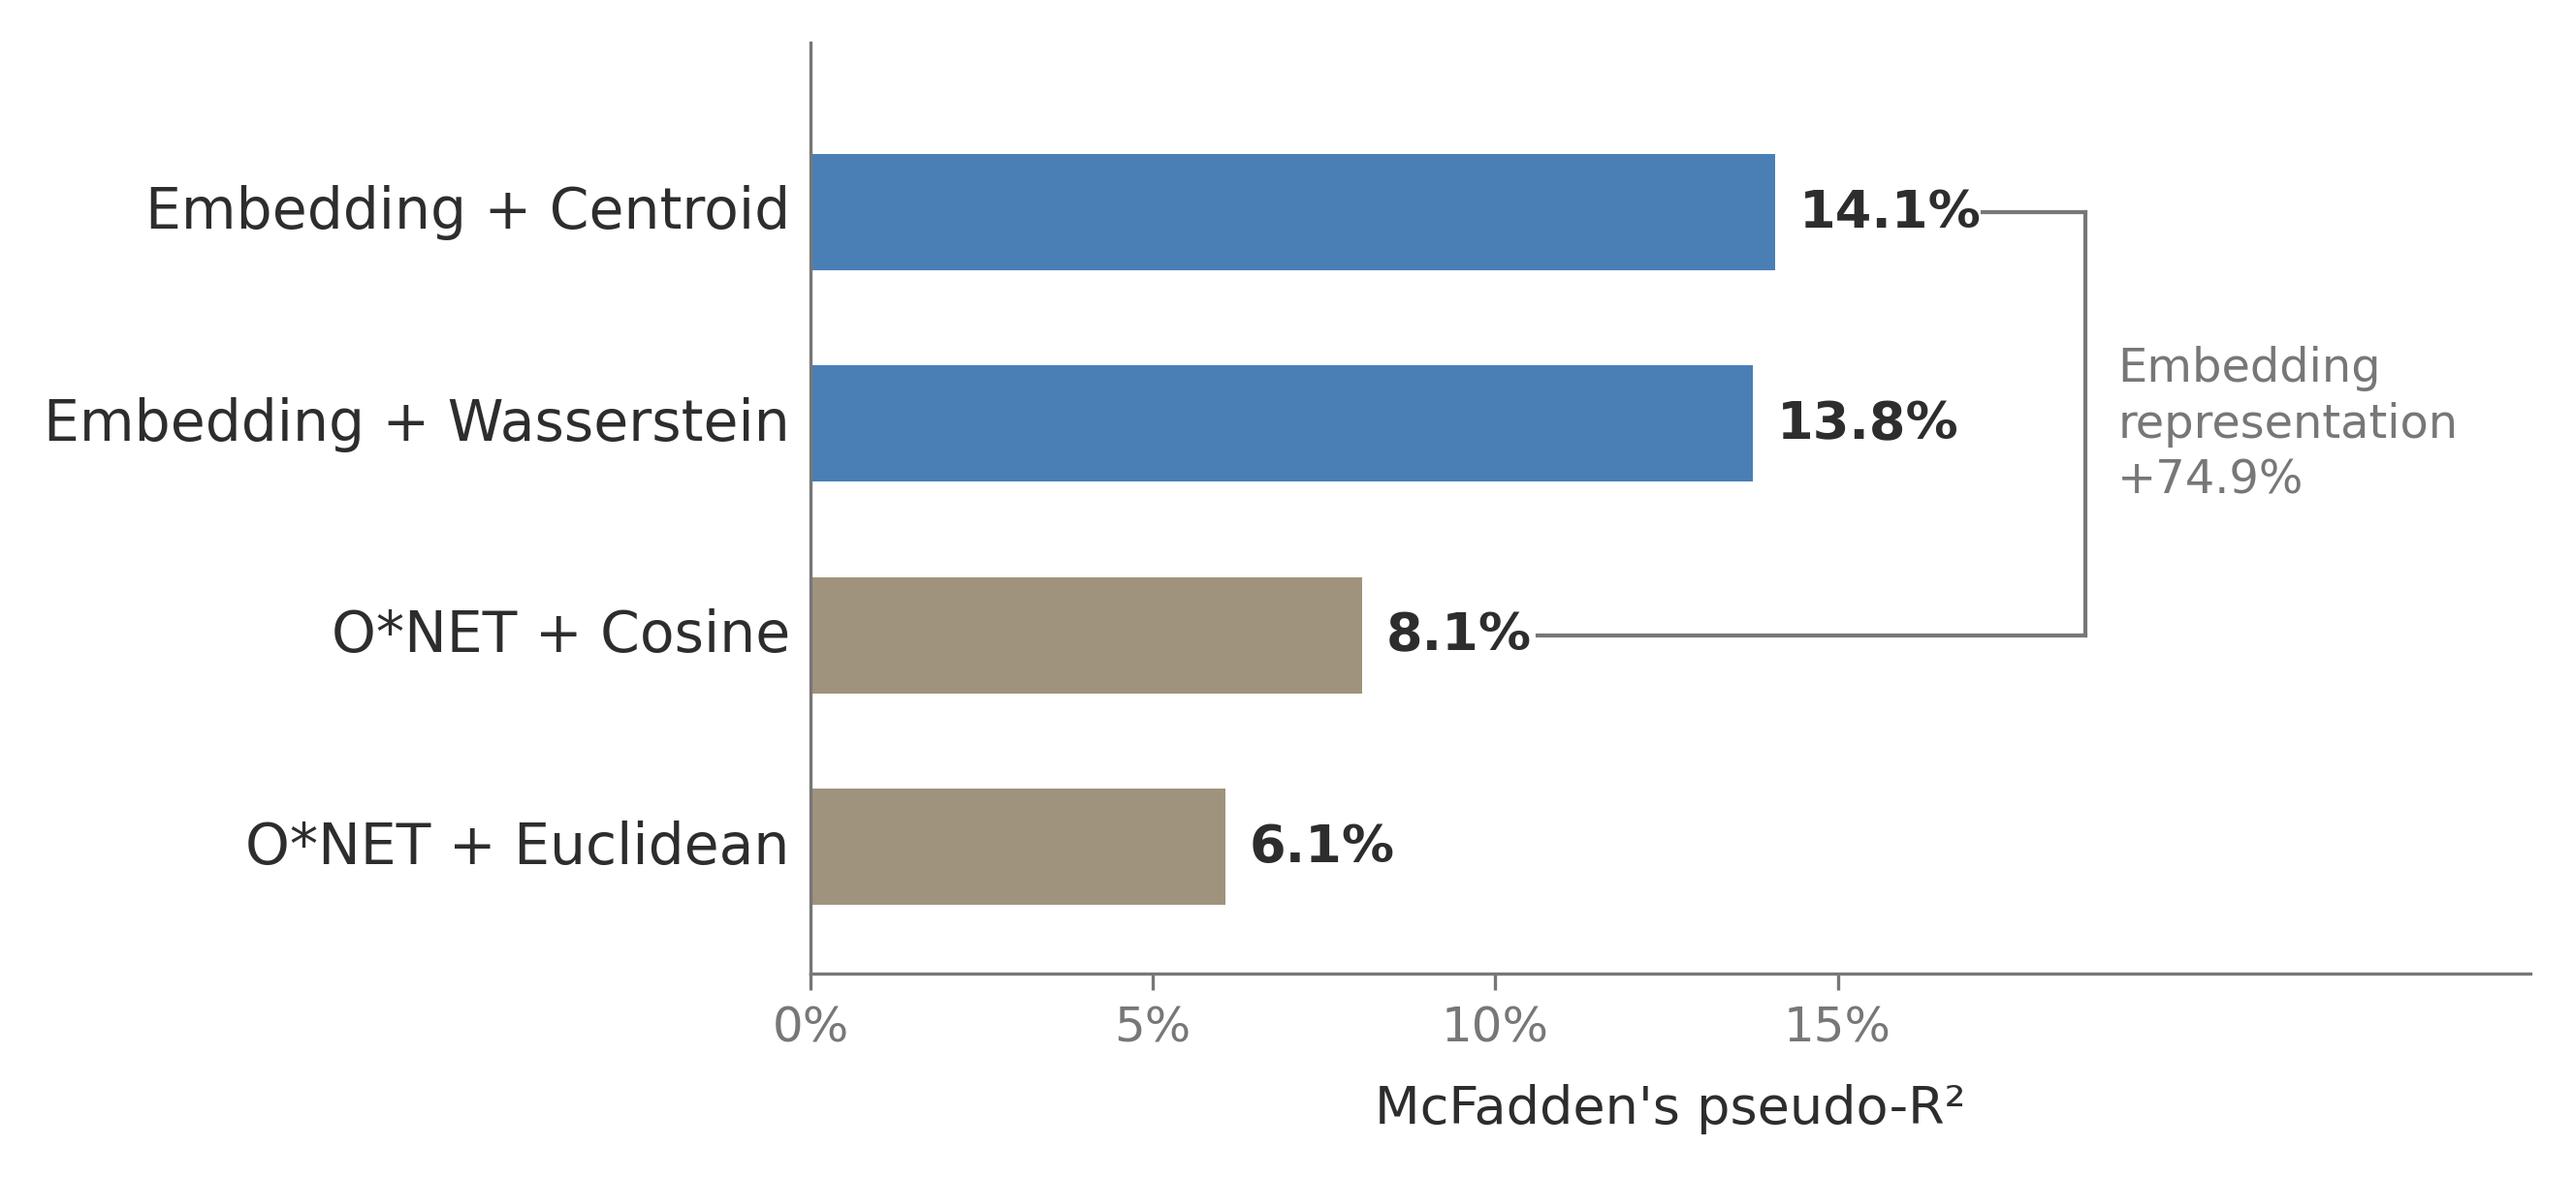
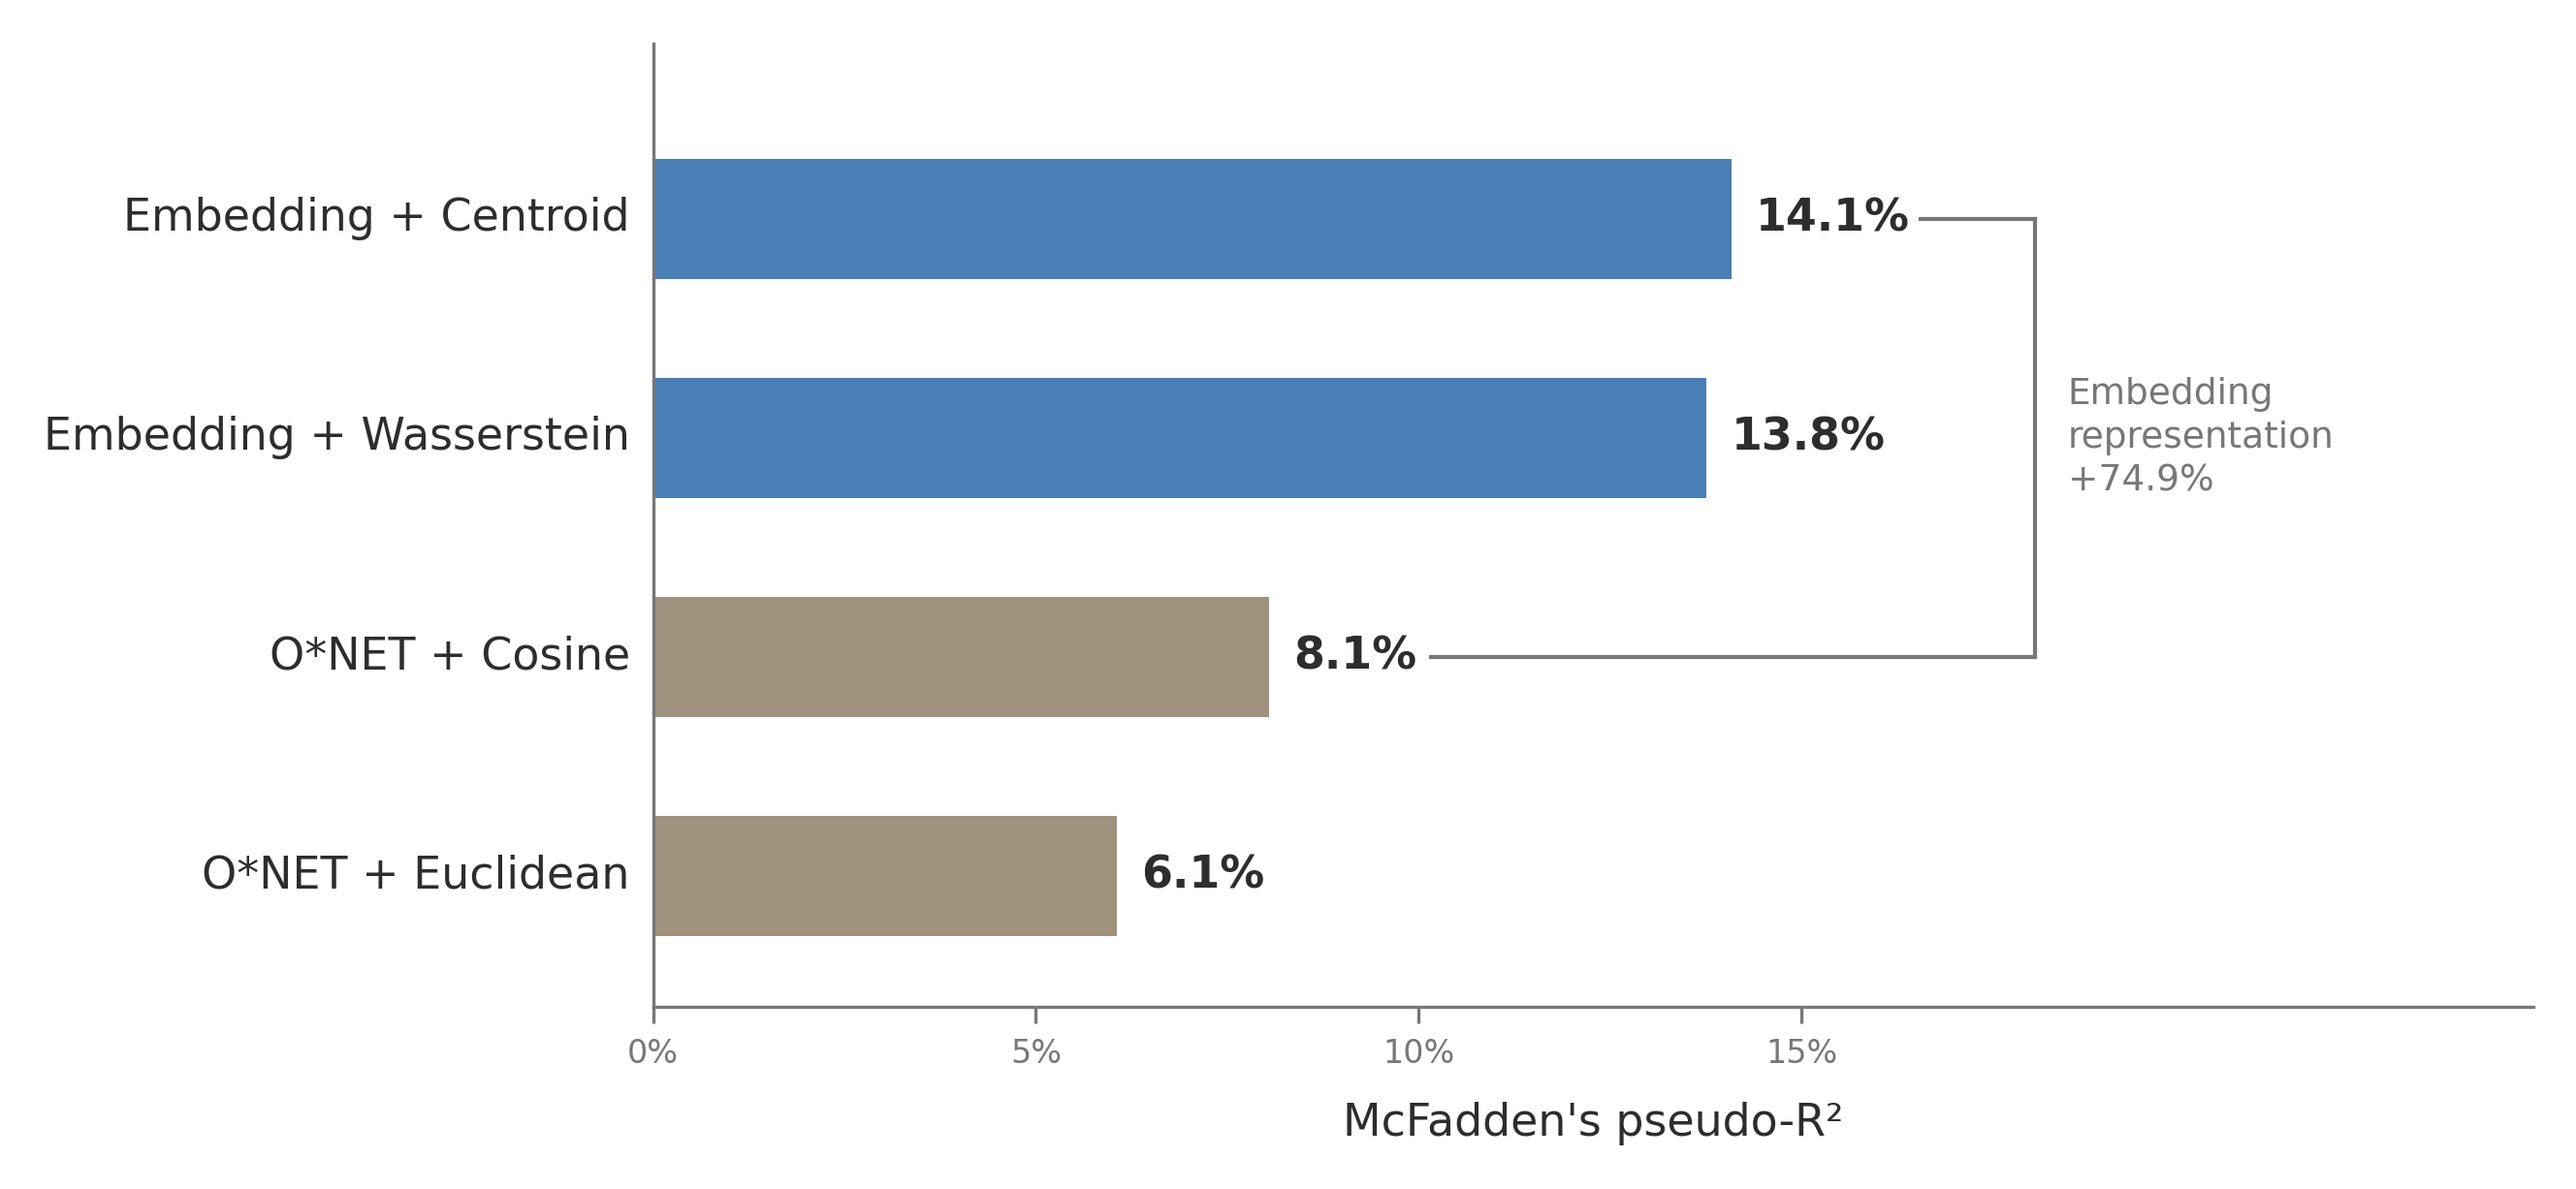
v0.7.10.22: Standardize fig1/fig2 fonts to style constants
Replace hardcoded font sizes with FONT_TITLE, FONT_LABEL, FONT_TICK
from style.py. Fix bar_label default from FONT_TITLE+2 to FONT_TITLE.

diff --git a/figures/fig2_pseudo_r2.py b/figures/fig2_pseudo_r2.py
@@ -7,8 +7,8 @@ import sys, os
 sys.path.insert(0, os.path.join(os.path.dirname(__file__), '..'))
 
 import matplotlib.pyplot as plt
-from figures.style import setup, bar_label
-from figures.style import PRIMARY, SECONDARY, DARK, MID
+from figures.style import (setup, bar_label, PRIMARY, SECONDARY, DARK, MID,
+                           FONT_TITLE, FONT_LABEL, FONT_TICK)
 
 font = setup()
 
@@ -37,7 +37,7 @@ bars = ax.barh(positions, values, color=colors, height=bar_height,
 
 # Spec name labels
 for pos, label in zip(positions, labels):
-    ax.text(-0.3, pos, label, ha='right', va='center', fontsize=14,
+    ax.text(-0.3, pos, label, ha='right', va='center', fontsize=FONT_TITLE,
             color=DARK, fontweight='medium')
 
 # Value labels using style helper
@@ -48,9 +48,9 @@ for pos, val in zip(positions, values):
 ax.set_xlim(0, 22)
 ax.set_ylim(-0.6, 3.8)
 ax.set_xticks([0, 5, 10, 15])
-ax.set_xticklabels(['0%', '5%', '10%', '15%'], fontsize=12)
+ax.set_xticklabels(['0%', '5%', '10%', '15%'], fontsize=FONT_TICK)
 ax.set_yticks([])
-ax.set_xlabel("McFadden's pseudo-R²", fontsize=13, labelpad=8)
+ax.set_xlabel("McFadden's pseudo-R²", fontsize=FONT_TITLE, labelpad=8)
 ax.tick_params(axis='y', length=0)
 ax.tick_params(axis='x', length=4)
 
@@ -114,7 +114,7 @@ if 'top' in label_right_edges and 'bottom' in label_right_edges:
     ax.annotate('Embedding\nrepresentation\n+74.9%',
                 xy=(x_bracket, (y_bottom + y_top) / 2), xycoords='data',
                 xytext=(8, 0), textcoords='offset points',
-                ha='left', va='center', fontsize=11.5, color=MID,
+                ha='left', va='center', fontsize=FONT_LABEL, color=MID,
                 linespacing=1.3)
 
     ax.set_xlim(0, x_bracket + 6.5)

diff --git a/figures/fig1_ai_exposure.py b/figures/fig1_ai_exposure.py
@@ -8,7 +8,8 @@ sys.path.insert(0, os.path.join(os.path.dirname(__file__), '..'))
 
 import pandas as pd
 import matplotlib.pyplot as plt
-from figures.style import setup, PRIMARY, MID, DARK, add_subtitle
+from figures.style import (setup, PRIMARY, MID, DARK, add_subtitle,
+                           FONT_TITLE, FONT_LABEL, FONT_TICK)
 
 font = setup()
 
@@ -46,18 +47,18 @@ ax.barh(range(n), d['gamma'].values * 100, height=0.65,
 
 for i, row in d.iterrows():
     ax.text(-0.5, i, row['name'], ha='right', va='center',
-            fontsize=11, color=DARK)
+            fontsize=FONT_TITLE, color=DARK)
     ax.annotate(f'{row["gamma"] * 100:.0f}%',
                 xy=(row['gamma'] * 100, i), xycoords='data',
                 xytext=(6, 0), textcoords='offset points',
-                ha='left', va='center', fontsize=10, color=MID,
+                ha='left', va='center', fontsize=FONT_LABEL, color=MID,
                 fontweight='bold')
 
 ax.set_xlim(0, 110)
 ax.set_xticks([0, 25, 50, 75, 100])
-ax.set_xticklabels(['0%', '25%', '50%', '75%', '100%'], fontsize=11)
+ax.set_xticklabels(['0%', '25%', '50%', '75%', '100%'], fontsize=FONT_TICK)
 ax.set_yticks([])
-ax.set_xlabel('Share of tasks theoretically feasible (γ)', fontsize=12,
+ax.set_xlabel('Share of tasks theoretically feasible (γ)', fontsize=FONT_TITLE,
               labelpad=8)
 ax.tick_params(axis='y', length=0)
 ax.tick_params(axis='x', length=4)

diff --git a/figures/style.py b/figures/style.py
@@ -87,7 +87,7 @@ def bar_label(ax, x, y, value, *, fmt='{:.1f}%', offset=(6, 0),
     ax.annotate(fmt.format(value), xy=(x, y), xycoords='data',
                 xytext=offset, textcoords='offset points',
                 ha='left', va='center',
-                fontsize=fontsize or (FONT_TITLE + 2),
+                fontsize=fontsize or FONT_TITLE,
                 color=color, fontweight='bold', **kwargs)
 
 
